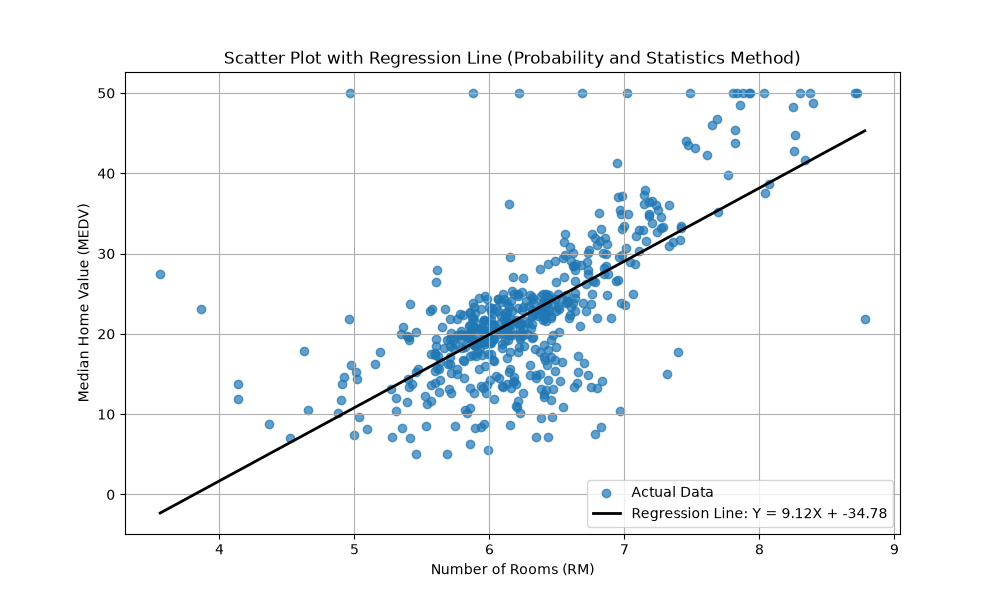
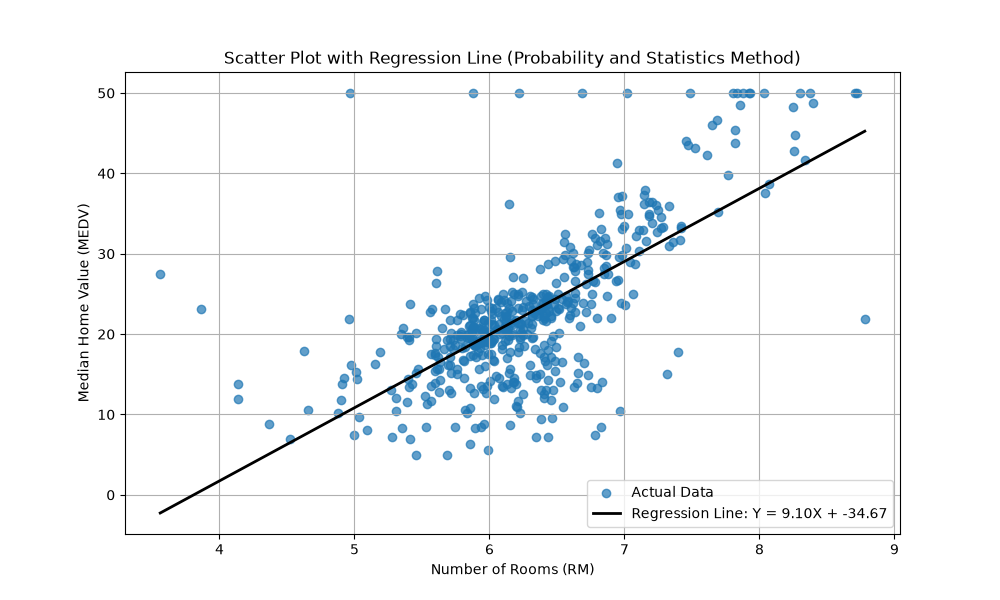
added eval and changed calcs

diff --git a/linear_regression_housing.py b/linear_regression_housing.py
@@ -13,7 +13,6 @@ a = nump.matmul(nump.transpose(Xcon), Xcon)
 b = nump.matmul(nump.transpose(Xcon), Y)
 theta = nump.matmul(nump.linalg.inv(a), b)
 
-
 #this is used to calculate the line using the probability
 #the slope = covariance(x,y)/var(x)
 #the y-intercept = y.mean - slope*x.mean
@@ -21,7 +20,8 @@ Xbar = X.mean()
 Ybar = Y.mean()
 
 cov = nump.cov(X,Y)
-theta_1 = cov[0,1]/(X.var())
+theta_1 = nump.cov(X, Y, ddof=0)[0,1] / X.var()
+#theta_1 = cov[0,1]/(X.var())
 theta_0 = Ybar - theta_1*Xbar
 
 #this is using machine learning to iterate through
@@ -62,16 +62,12 @@ for epoch in range(epochs):
         plt.ylabel('Median Home Value (MEDV)')
         plt.grid(True)
         plt.legend()
-        plt.savefig(f'ml_progression/linearreg_ml_v{version}.png')
+        plt.savefig(f'Scatter_Plots/ML_Progression/linearreg_ml_v{version}.png')
         plt.close()
 
-    print('Epoch {}, cost {}, m grad {}, b grad {}'.format(epoch, '%.3g' % cost,'%.3g' % dw, '%.3g' % db, '%.3g'))
- #   if epoch % 100 == 0:
-  #    print(f'Epoch {epoch+1}/{epochs}, Cost: {cost}, w: {w}, b: {b}')
+    print('Epoch {}, cost {}, m grad {}, b grad {}'.format(epoch, '%.3g' % cost,'%.3g' % dw, '%.3g' % db))
 
 print(f'Final Cost: {cost}, w: {w}, b: {b}')
-#print(f'Predicted Y values (on training data): {y_pred}')
-#print(f'Actual Y values (on training data): {y_train}')
 print(f'Final Weights: {w}')
 print(f'Final Bias: {b}')
 
@@ -87,7 +83,7 @@ plt.xlabel('Number of Rooms (RM)')
 plt.ylabel('Median Home Value (MEDV)')
 plt.grid(True)
 plt.legend()
-plt.savefig('linearreg_normal.png')
+plt.savefig('Scatter_Plots/linearreg_normal.png')
 
 xline = nump.linspace(X.min(), X.max(), 100)
 yline = theta_0 + theta_1*xline
@@ -100,7 +96,7 @@ plt.xlabel('Number of Rooms (RM)')
 plt.ylabel('Median Home Value (MEDV)')
 plt.grid(True)
 plt.legend()
-plt.savefig('linearreg_prob.png')
+plt.savefig('Scatter_Plots/linearreg_prob.png')
 
 y_pred_ml = w * X + b
 
@@ -112,23 +108,12 @@ plt.xlabel('Number of Rooms (RM)')
 plt.ylabel('Median Home Value (MEDV)')
 plt.grid(True)
 plt.legend()
-plt.savefig('linearreg_ml.png')
-
+plt.savefig('Scatter_Plots/linearreg_ml.png')
 
 #Saving the model
-#nump.savetxt('model_weight.txt', w)
-#nump.savetxt('model_bias', b)
 
-nump.savez('linear_regression.npz', weight=w, bias=b)
+nump.savez('ML_Model/linear_regression.npz', weight=w, bias=b)
 print("Model saved Successfully")
-
-#so it would've been nice if i saved my test data so i could evaluate the model on the test data
-#but i'm an idiot so now i have to rerun my model again until i get another accurate prediction on the test data
-#I'm such an idiot. 
-#oh well, at least I'm learning right? 
-#the good thing is because it's a regression, I don't really need test data but wth, might as well.
-#Anyway, here's the code for saving the test data for future use.
-
-nump.savez('test_data.npz', x_test=x_test, y_test=y_test)
+nump.savez('ML_Model/test_data.npz', x_test=x_test, y_test=y_test)
 print("Test data saved Successfully")
 #return 0;

diff --git a/ML_Model/data_eval.py b/ML_Model/data_eval.py
@@ -1,0 +1,19 @@
+import numpy as nump
+
+model = nump.load('linear_regression.npz')
+data = nump.load('test_data.npz')
+w = model['weight']
+b = model['bias']
+
+y_pred = w * data['x_test'] + b
+mse = nump.mean((data['y_test'] - y_pred)**2)
+rmse = nump.sqrt(mse)
+
+SS_res = nump.sum((data['y_test'] - y_pred)**2)
+SS_tot = nump.sum((data['y_test'] - data['y_test'].mean())**2)
+r_squared = 1 - (SS_res/SS_tot)
+
+rmse_real = rmse * 1000
+r_squared_real = r_squared * 100
+print(f'The model is off by ${rmse_real:.2f} of value on average')
+print(f'The model accounts for {r_squared_real:.1f}% of the variation in home value')